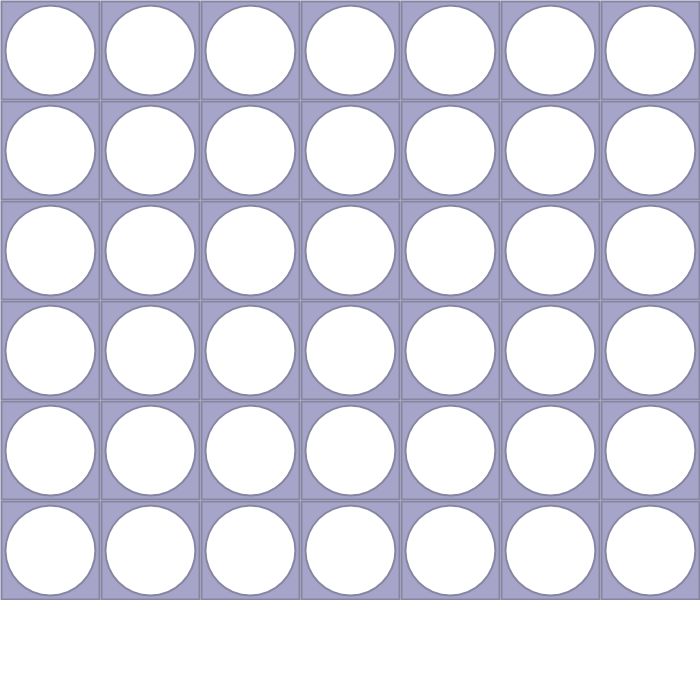
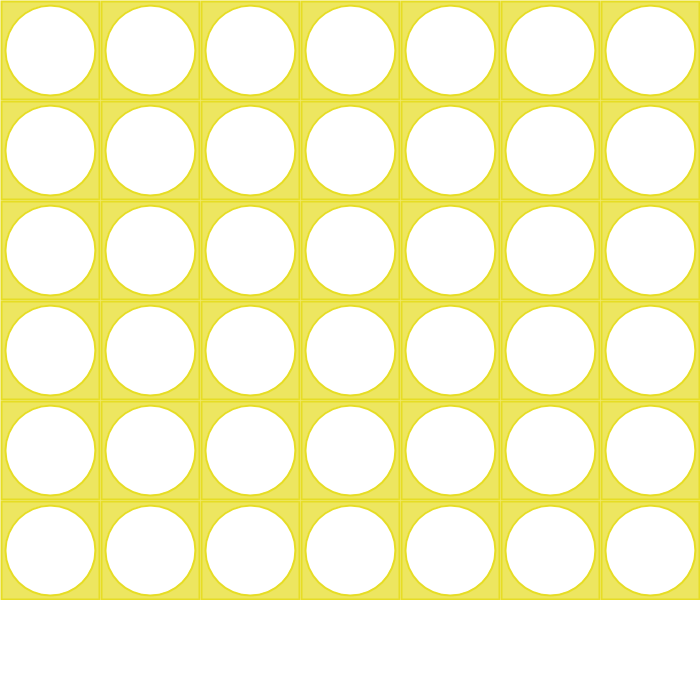
commited may 9th

diff --git a/style.css b/style.css
@@ -1,50 +1,49 @@
 body {
-    background-color: lightblue;
+    background-color: rgb(64, 131, 255);
 }
 .wrapper {
     display: flex;
     flex-direction: row;
     justify-content: center;
-    background-color: lightblue;
+    background-color: rgb(64, 131, 255);
 }
 
 .columns {
     display: flex;
     flex-direction: column-reverse;
     align-items: center;
-    /* border: px solid black; */
     height: 600px;
     width: 100px;
-    /* margin: 0 1px 0 px; */
     border-radius: 10px;
     position: relative;
-    background-color: white;
+    background-color: whitesmoke;
     box-sizing: border-box;
 }
 
 h1 {
-    font-family: 'Segoe UI', Tahoma, Geneva, Verdana, sans-serif;
+    font-family: 'Do Hyeon', sans-serif;
     color: red;
     text-align: center;
     font-size: 7em;
     box-sizing: border-box;
     margin-top: 0;
+    margin-bottom: 0;
 }
 
 #blackCircle {
     border-radius: 50%;
-    width: 90px;
-    height: 90px;
+    width: 98px;
+    height: 98px;
     background-color: black;
-    margin: 5px;
+    margin: 1px;
 }
 
 #redCircle {
     border-radius: 50%;
-    width: 90px;
-    height: 90px;
+    width: 98px;
+    height: 98px;
     background-color: red;
-    margin: 5px;
+    margin: 1.1px;
 }
 #winner {
     display: none;
@@ -55,7 +54,7 @@ h1 {
     border: solid black 7px;
     border-radius: 50px;
     background-color: rgba(200, 200, 200, 0.75);
-    font-family: 'Segoe UI', Tahoma, Geneva, Verdana, sans-serif;
+    font-family: 'Do Hyeon', sans-serif;
     text-align: center;
     font-size: 16rem;
 }

diff --git a/main.js b/main.js
@@ -7,8 +7,10 @@ const wrapper = document.getElementById("wrapper")
 
 //Place Circle
 function placeCircle(event) {
-    let redCircle = document.createElement("div")
-    let blackCircle = document.createElement("div")
+    let redCircle = document.createElement("img")
+    redCircle.setAttribute("src", "redChecker.jpg")
+    let blackCircle = document.createElement("img")
+    blackCircle.setAttribute("src", "blackChecker.jpg")
     let clickedColumn = event.currentTarget
     redCircle.setAttribute("id", "redCircle")
     blackCircle.setAttribute("id", "blackCircle")
@@ -51,7 +53,7 @@ function checkWinner() {
             winner.style.color = "black"
         }
 
-        setTimeout(resetGame, 2000)
+        setTimeout(resetGame, 5000)
     }
 }
 

diff --git a/index.html b/index.html
@@ -7,6 +7,7 @@
     <meta http-equiv="X-UA-Compatible" content="ie=edge">
     <title>Connect Four</title>
     <link rel="stylesheet" href="style.css">
+    <link href="https://fonts.googleapis.com/css?family=Do+Hyeon" rel="stylesheet">
 </head>
 
 <body>
@@ -22,6 +23,8 @@
         <div id="column6" class="columns" data-id="5"></div>
         <div id="column7" class="columns" data-id="6"></div>
     </div>
+    <a id="blackCircle" href="blackchecker.jpg"></a>
+    <a id="redCircle" href="redchecker.jpg"></a>
     <script type="text/javascript" src="main.js"></script>
 </body>
 
